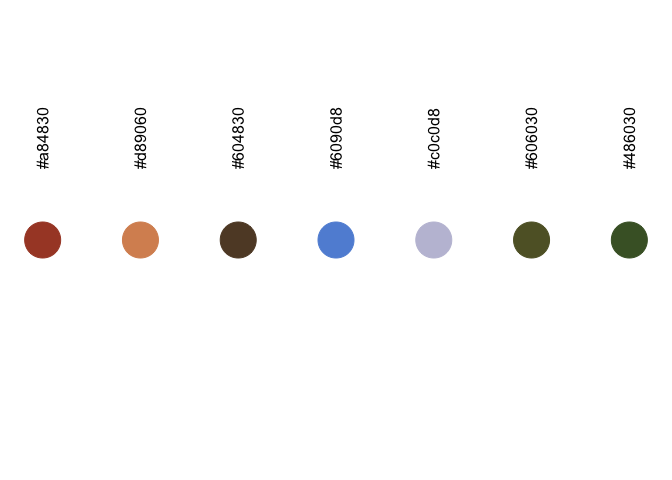
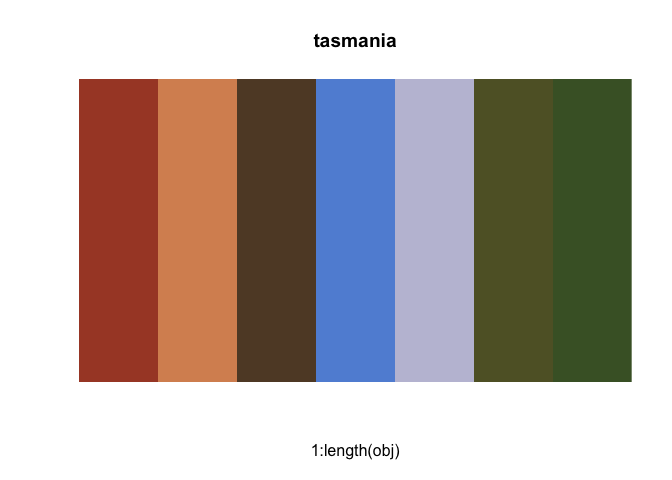
Update for new viz_palette

diff --git a/README.md b/README.md
@@ -28,7 +28,7 @@ image(volcano, col = pal(10))
 Individual palettes can be vizualized.
 
 ```r
-viz_palette(ochre_palettes[["tasmania"]])
+viz_palette(ochre_palettes[["tasmania"]], "tasmania")
 ```
 
 ![](README_files/figure-html/unnamed-chunk-2-1.png)<!-- -->
